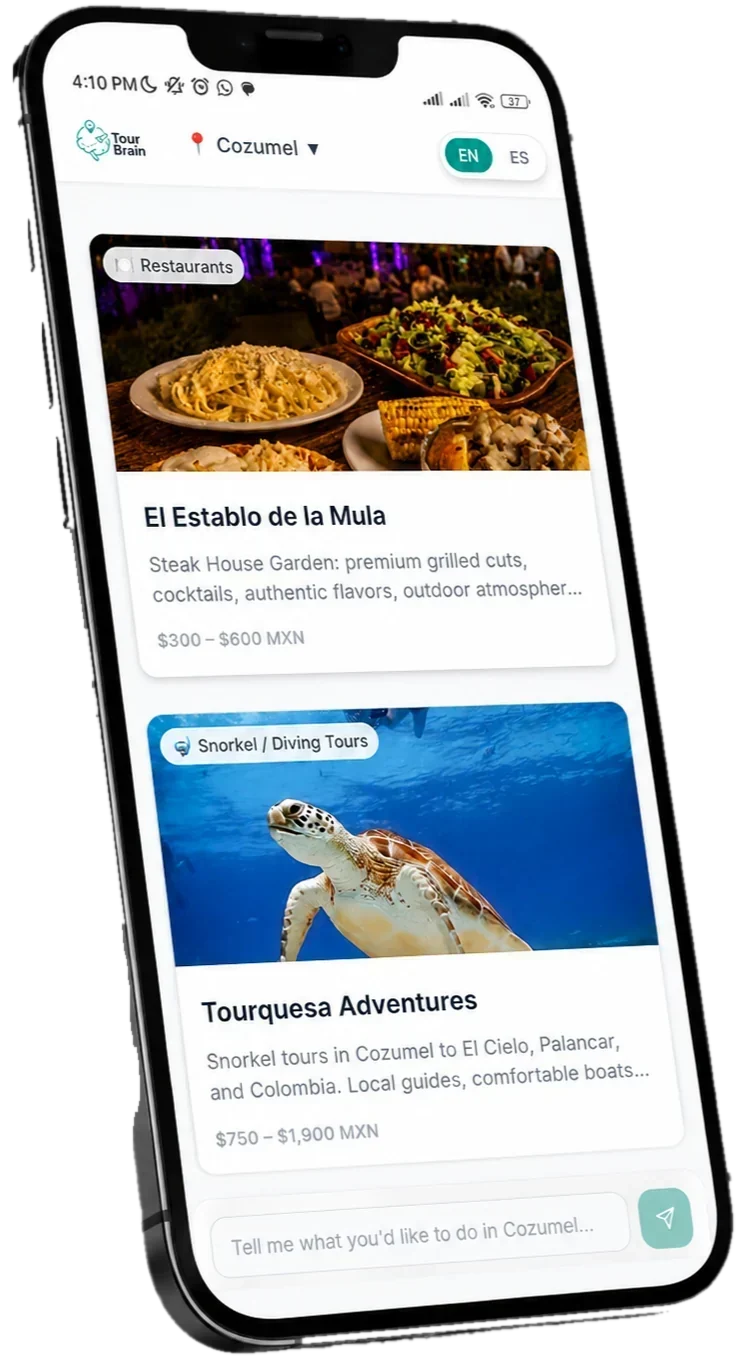
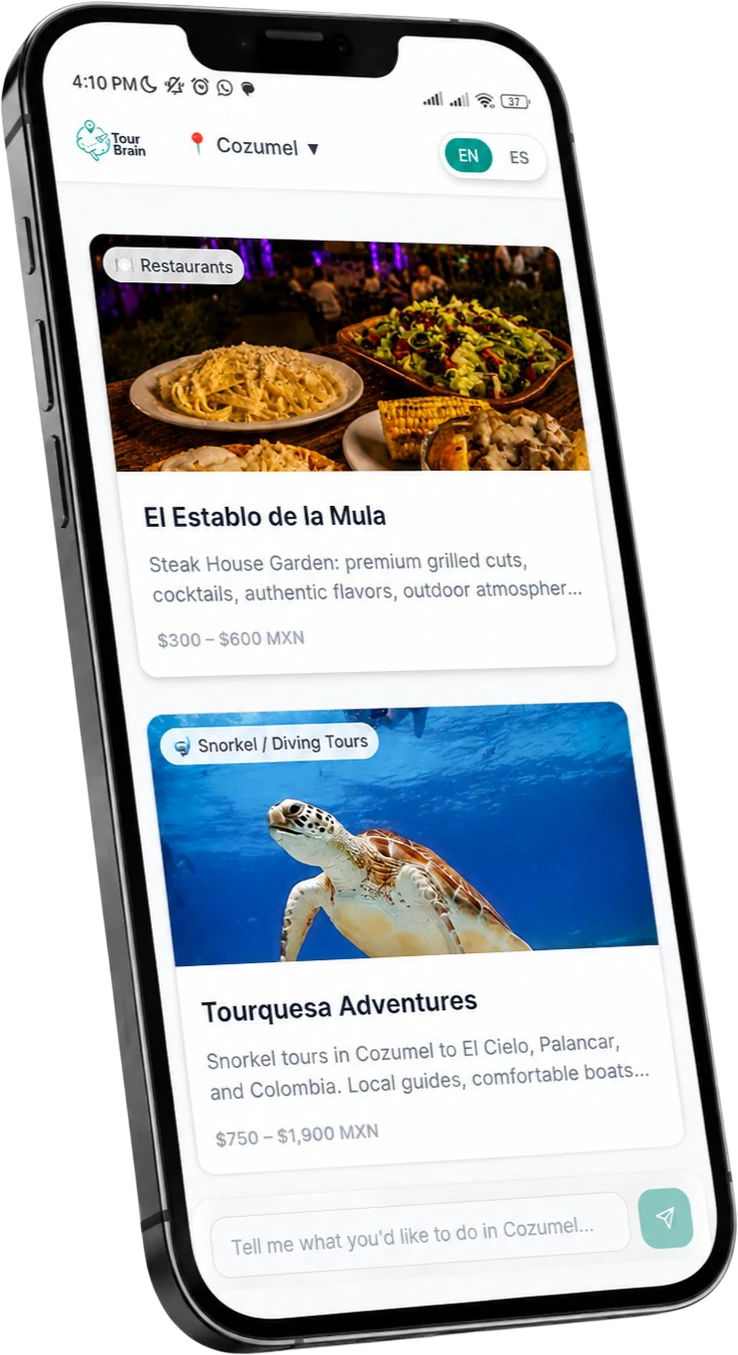
Automatizaciones: celular de TourBrain con el recorte limpio que mandó Carlos
Claude-Session: https://claude.ai/code/session_01Sn4rdQFhT2XBEZdu2U43Dy

diff --git a/src/lib/servicios.ts b/src/lib/servicios.ts
@@ -37,7 +37,7 @@ export const VISUALES: Record<ServicioSlug, Visual> = {
     },
   },
   automatizaciones: {
-    hero: { src: "/servicios/tourbrain-celular.webp", ancho: 739, alto: 1363, tipo: "celular", pie: "TourBrain" },
+    hero: { src: "/servicios/tourbrain-celular.webp", ancho: 738, alto: 1355, tipo: "celular", pie: "TourBrain" },
     caso: { nombre: "TourBrain", url: "https://www.tourbrain.online", dominio: "tourbrain.online" },
   },
 };
